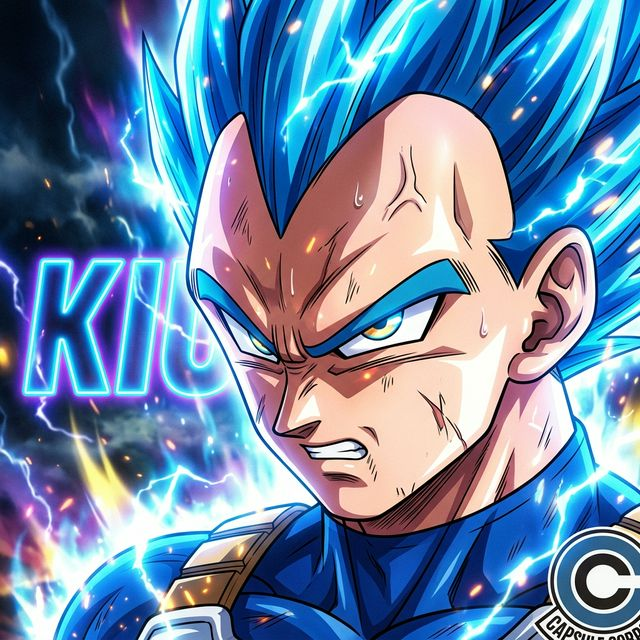
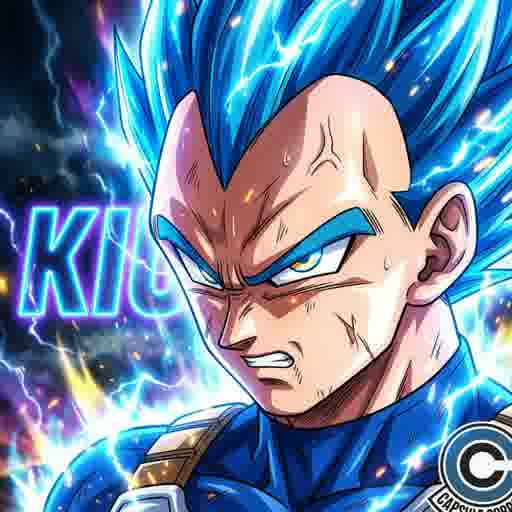
Optimize assets (512x512, ~15K), fix ping caption error, and inject settings context in index.js

diff --git a/index.js b/index.js
@@ -2592,7 +2592,13 @@ async function startkiubyxmd() {
                             reply,
                             react,
                             isCommand: isCommandMessage,
-                            commandName: cmd
+                            commandName: cmd,
+                            botSettings,
+                            updateSettings: async (updates) => {
+                                const res = await updateSettings(updates);
+                                if (res) botSettings = await getSettings();
+                                return res;
+                            }
                         };
 
                         // EXECUTE COMMAND

diff --git a/plugins/system.js b/plugins/system.js
@@ -234,7 +234,7 @@ kiubyxmd({
     const styledText = applyFont(currentText, fontIndex);
 
     await client.sendMessage(from, {
-      caption: styledText,
+      text: styledText,
       edit: key
     });
 
@@ -243,7 +243,7 @@ kiubyxmd({
 
   // Final fix to normal font (or preferred font)
   await client.sendMessage(from, {
-    caption: finalPingText,
+    text: finalPingText,
     edit: key
   });
 });
